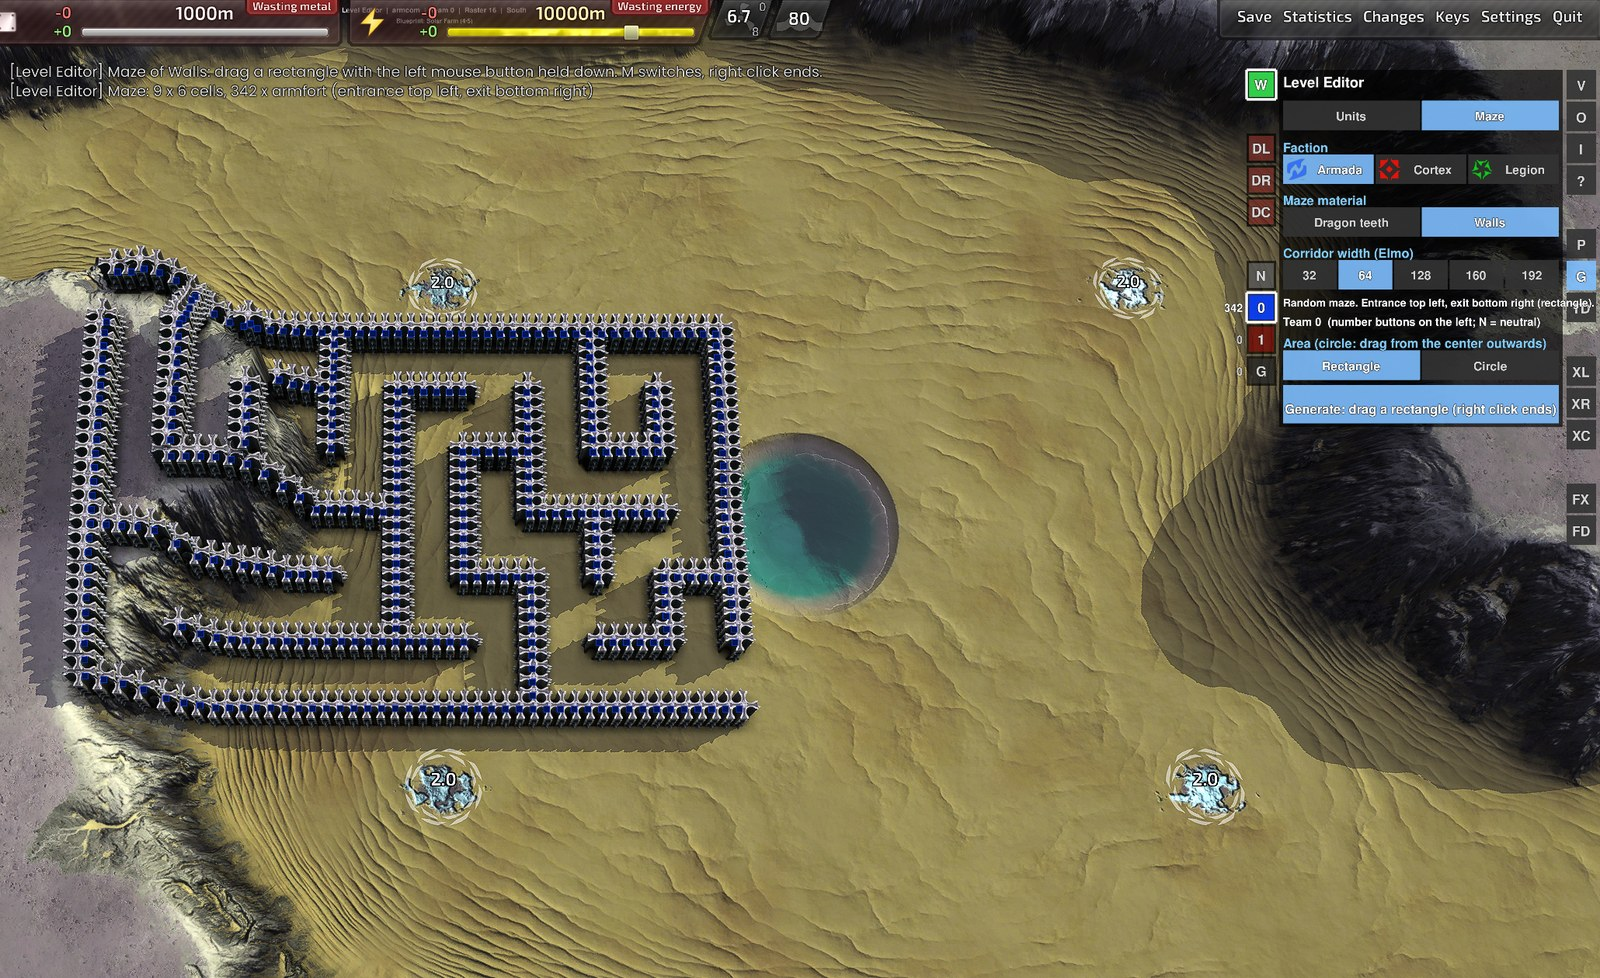
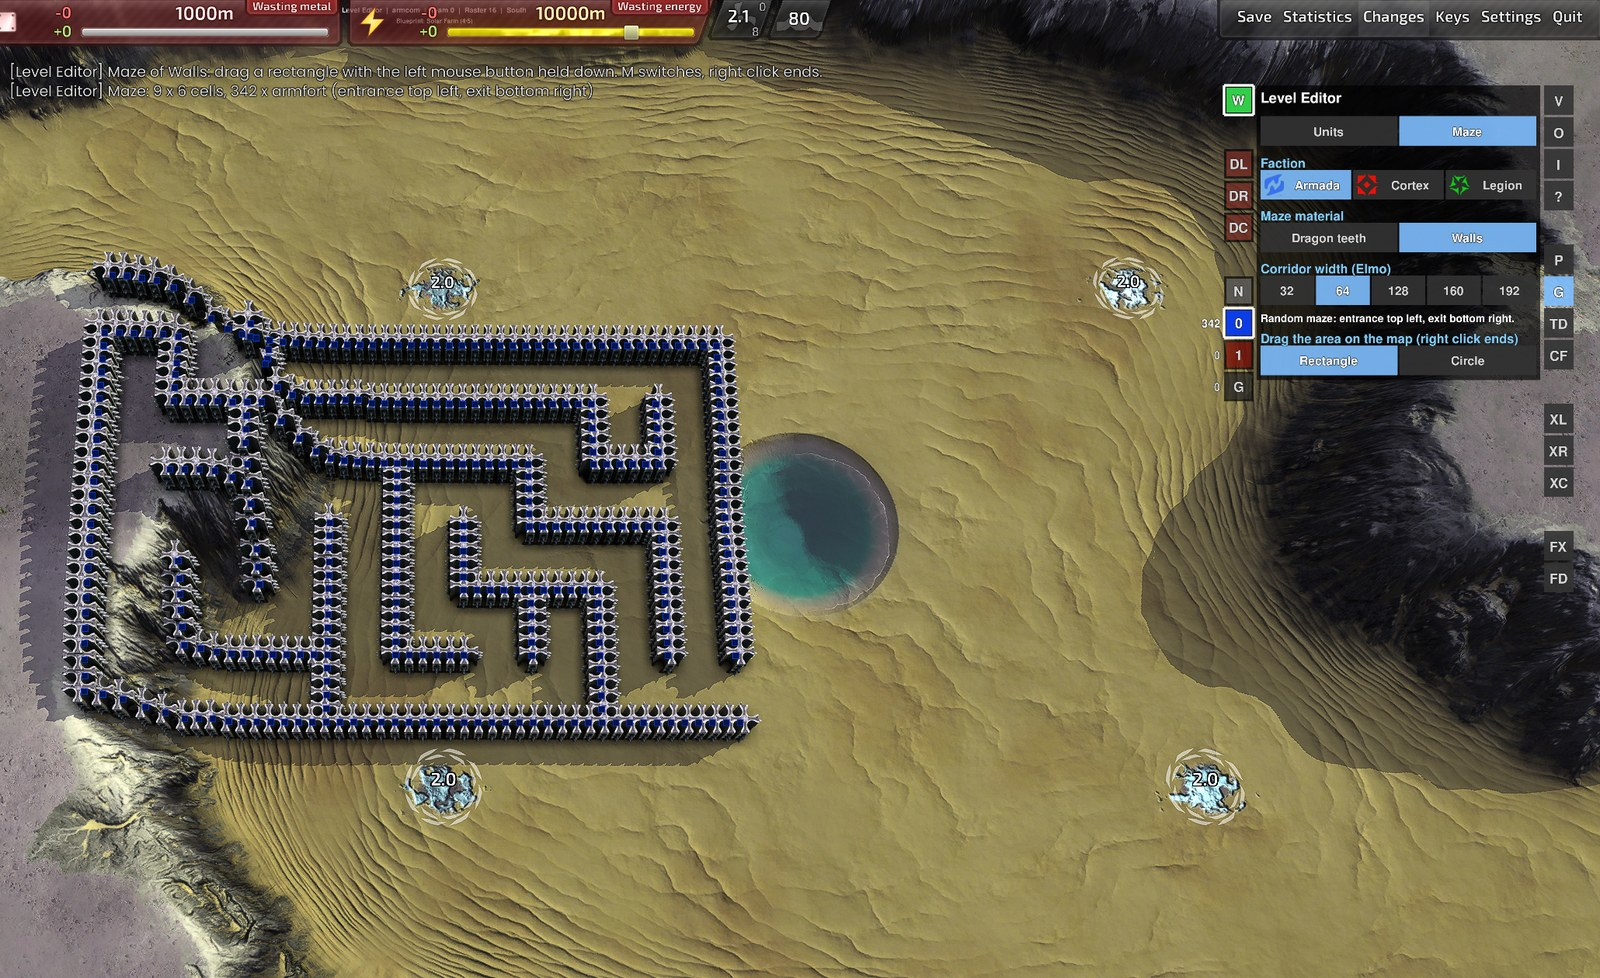
New screenshots of the Level Editor (Place units with the red X marks, blueprints, generate units, generate maze, Tower Defense, Capture the Flag, scenario); the maze picture is the third picture under Features in the README

Changed region(s): [[0.0312, 0.2454, 0.5, 0.7975], [0.75, 0.0613, 1.0, 0.6135], [0.0, 0.0, 0.4688, 0.0613]]

diff --git a/docs/screenshots.md b/docs/screenshots.md
@@ -10,14 +10,14 @@ Notes on what each picture shows, so they can be retaken after a change of the l
 
 | File | Page and state |
 |---|---|
-| `level-editor-place-units.jpg` | Place, tab Units, Armada, Buildings, T1. Some buildings and bots standing on the map. The pointer rests on the Energy Converter tile: 3D preview and info lines (cost, explosion). |
+| `level-editor-place-units.jpg` | Place, tab Units, Armada, Buildings, T1. Some buildings and bots standing on the map. Two units are forbidden (dimmed with a big red X); the small X marks in every tile and in the faction, group and tech buttons are the restrictions of the level. The pointer rests on the Energy Converter tile: 3D preview and info lines (cost, explosion). |
 | `level-editor-place-blueprints.jpg` | Place, tab Blueprints with five blueprints (Defense Cluster, Wall Line, Factory Block, Mex Outpost, Solar Farm) with their cost; copies of three of them placed on the map; the pointer rests on Factory Block (3D preview and info). |
-| `level-editor-generate-units.jpg` | Generate, sub-tab Units with Units and Turrets switched on, count 100, area Rectangle. The result of a dragged rectangle: about 100 Armada units and turrets in the area (message about free space). |
-| `level-editor-generate-maze.jpg` | Generate, sub-tab Maze, material Walls, corridor width 64. A maze built in a dragged rectangle (top-down view). |
+| `level-editor-generate-units.jpg` | Generate, sub-tab Units with Units and Turrets switched on, count 100, area Rectangle (pressed = armed). The result of a dragged rectangle: about 100 Armada units and turrets in the area (message about free space). |
+| `level-editor-generate-maze.jpg` | Generate, sub-tab Maze, material Walls, corridor width 64, area Rectangle (pressed = armed). A maze built in a dragged rectangle (top-down view). Third picture under Features on the GitHub page. |
 | `level-editor-tower-defense.jpg` | Tower Defense page: Tower Defense on (green), corridor of walls (Line, 128 Elmo) drawn with a bend, spawn point (green circle), three waypoints and the goal (red circle) with the yellow route line, three waves, Restrictions with Economy and Fog of war on, tower list (Armada, Towers, T1), a few towers placed, the pointer on the Ferret tile (3D preview, info). |
-| `level-editor-capture-the-flag.jpg` | Capture the Flag page: on, income 100 metal, 3 flags to hold, radius 110, team 0 with two collection points and team 1 with one (thick rings) and three flag points each (thin rings, team colors); the pointer rests on a flag point (second ring). |
+| `level-editor-capture-the-flag.jpg` | Capture the Flag page: the buttons for collection and flag points at the top, on, income 100 metal, 3 flags to hold, radius 110, team 0 with two collection points and three flag points, team 1 with one collection point and three flag points (thick rings = collection points, thin rings = flag points, team colors); the pointer rests on a flag point (second ring). |
 | `level-editor-scenario.jpg` | Scenario page (button I) of a level with a battle: title "Hold the Plateau", roles, tech, AI, win condition, start resources, grace period 2:30, ID; the map shows the plateau and the Cortex base. |
 
-The BluePrinter pictures (`blueprinter-blueprints.jpg`, `blueprinter-buildings.jpg`, `area-attack.jpg`) show the BluePrinter in a normal game and were not retaken (its layout did not change).
+The BluePrinter pictures (`blueprinter-blueprints.jpg`, `blueprinter-buildings.jpg`) show the BluePrinter in a normal game (window 3000 x 1800, cut to x 1000 ... 3000, y 60 ... 1460 and scaled to 1600 x 1120; map Hooked 1.1; five sample blueprints bp_001 ... bp_005, three of them queued with 18 open plans). The Buildings view has no red X marks: they belong to the Level Editor only. `area-attack.jpg` was not retaken (its layout did not change).
 
 **How they were taken:** an isolated test instance of the game (own write folder, own settings with a framed window, own copy of the extra game) so the normal game stays untouched; a temporary widget set the scenes up through the widget (clicks on buttons and on the map) and took the screenshots. The scripts are not part of the repository.

diff --git a/README.md b/README.md
@@ -69,9 +69,9 @@ All buttons are in the **button column at the right edge** (V, O, I, ?, P, G, TD
 - **Tower Defense:** walls that guide waves of enemies along a route, rules for what the player may build, a test run in the editor, and export as a scenario.
 - **Capture the Flag:** flag points, collection points for every team and an income in metal, for human against human.
 
-| Blueprints | Generate: units |
-|---|---|
-| ![Place menu, Blueprints tab](docs/level-editor-place-blueprints.jpg) | ![Generate menu, Units](docs/level-editor-generate-units.jpg) |
+| Blueprints | Generate: units | Generate: maze |
+|---|---|---|
+| ![Place menu, Blueprints tab](docs/level-editor-place-blueprints.jpg) | ![Generate menu, Units](docs/level-editor-generate-units.jpg) | ![Generate menu, Maze](docs/level-editor-generate-maze.jpg) |
 
 ## Scenario builder
 
